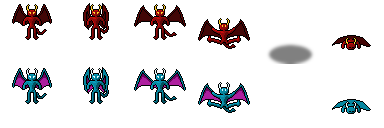
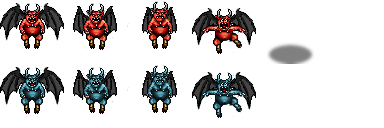
ADD New art for imps

diff --git a/src/ImpEntity.cpp b/src/ImpEntity.cpp
@@ -88,13 +88,8 @@ void ImpEntity::animate(float delay)
 
       }
 
-      switch (((int)(age * 5.0f)) % 4)
-      {
-        case 0:
-        case 2: frame = 0; break;
-        case 1: frame = 1; break;
-        case 3: frame = 2; break;
-      }
+      frame = ((int)(age * 5.0f)) % 4;
+      if (frame == 3) frame = 1;
     }
     if (impType == ImpTypeBlue) frame += 5;
   }
@@ -104,10 +99,10 @@ void ImpEntity::animate(float delay)
 
 void ImpEntity::calculateBB()
 {
-    boundingBox.left = (int)x - width / 2 + IMP_BB_LEFT;
-    boundingBox.width = width - IMP_BB_WIDTH_DIFF;
-    boundingBox.top = (int)y - height / 2 + IMP_BB_TOP;
-    boundingBox.height =  height - IMP_BB_HEIGHT_DIFF;
+    boundingBox.left = (int)x - 14;
+    boundingBox.width = 28;
+    boundingBox.top = (int)y - 14;
+    boundingBox.height =  28;
 }
 
 void ImpEntity::collideMapRight()
